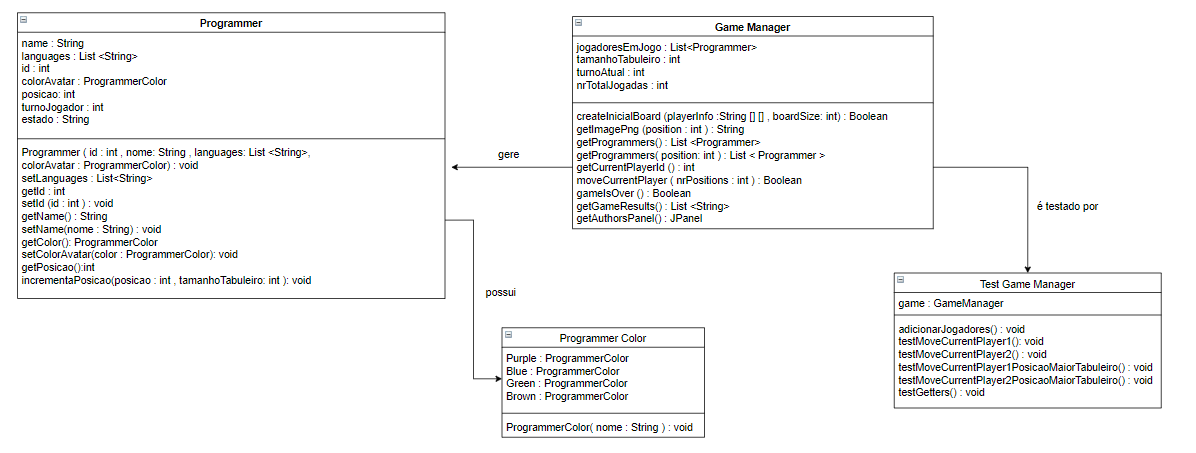
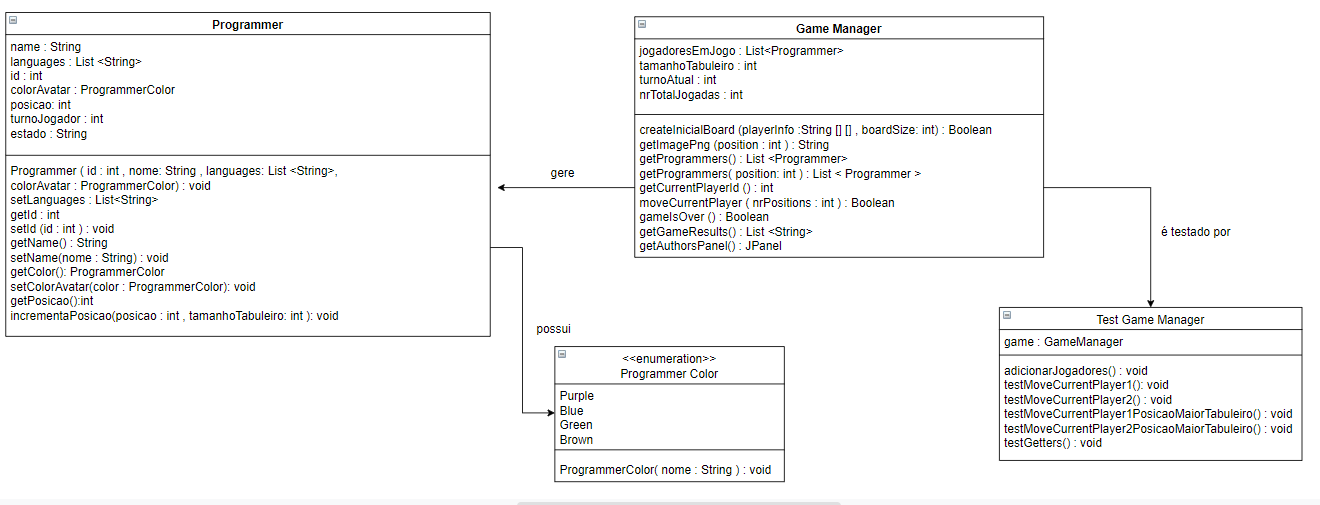
Atualizei uml e criei mais um teste

diff --git a/src/pt/ulusofona/lp2/deisiGreatGame/TestGameManager.java b/src/pt/ulusofona/lp2/deisiGreatGame/TestGameManager.java
@@ -59,6 +59,16 @@ public class TestGameManager {
         assertEquals("a posição não está correta: ", esperada, obtido);
     }
 
+    @Test
+    public void testMoveCurrentPlayer2PosicaoInvalidaTabuleiro() {
+        adicionarJogadores();
+        game.moveCurrentPlayer(0);
+        ArrayList<Programmer> programmers = game.getProgrammers();
+        String obtido = programmers.get(1).toString();
+        String esperada = "2 | Goncalo | 1 | java; phyton | Em Jogo";
+        assertEquals("a posição não está correta: ", esperada, obtido);
+    }
+
         @Test
     public void testGetters() {
         ArrayList<String> languages = new ArrayList<>();
